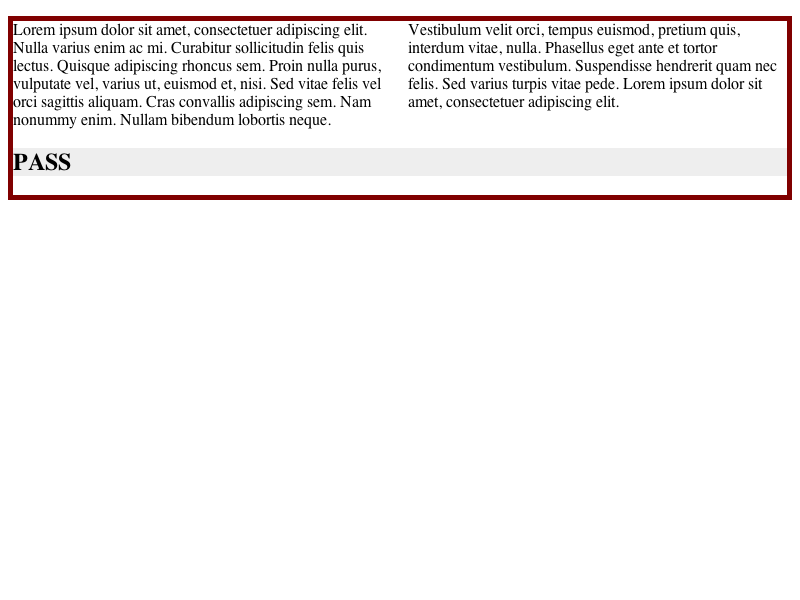
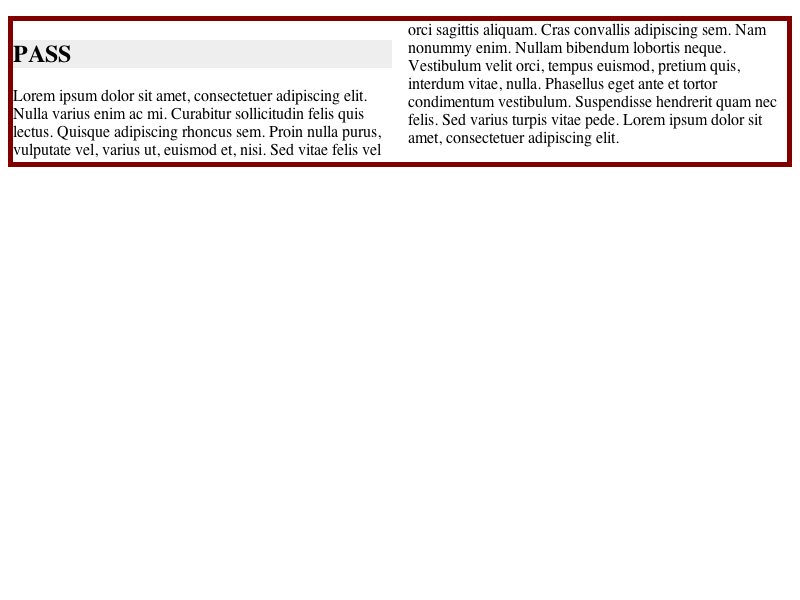
Crash in RenderObjectChildList::destroyLeftOverChildren() https://bugs.webkit.org/show_bug.cgi?id=64753
Reviewed by James Robinson.

Source/WebCore: 

If any of the ancestors between column span element and containing
column's block is a continuation, then don't attempt to render the
column span by splitting the block into continuations.

Test: fast/multicol/column-span-parent-continuation-crash.html

* rendering/RenderBlock.cpp:
(WebCore::RenderBlock::columnsBlockForSpanningElement):

LayoutTests: 

anonymous-split-block-crash rendering was already wrong. The fix prevents
the tree to go bad and hence does not do the column-span rendering. same issue
with clone-anonymous-block-non-inline-child-crash test.

* fast/multicol/column-span-parent-continuation-crash-expected.txt: Added.
* fast/multicol/column-span-parent-continuation-crash.html: Added.
* platform/mac/fast/multicol/span/anonymous-split-block-crash-expected.png:
* platform/mac/fast/multicol/span/anonymous-split-block-crash-expected.txt:
* platform/mac/fast/multicol/span/clone-anonymous-block-non-inline-child-crash-expected.png:
* platform/mac/fast/multicol/span/clone-anonymous-block-non-inline-child-crash-expected.txt:

git-svn-id: http://svn.webkit.org/repository/webkit/trunk/LayoutTests@94541 268f45cc-cd09-0410-ab3c-d52691b4dbfc

Changed region(s): [[0.0, 0.03, 1.0, 0.36], [0.5, 0.03, 0.9688, 0.24]]

diff --git a/fast/multicol/column-span-parent-continuation-crash.html b/fast/multicol/column-span-parent-continuation-crash.html
@@ -1,0 +1,37 @@
+<!DOCTYPE html>
+<html>
+<body>
+<div id="console"></div>
+<style>
+div { -webkit-column-count: 1; }
+h2 { -webkit-column-span: all; }
+</style>
+<script src="../js/resources/js-test-pre.js"></script>
+<script>
+if (window.layoutTestController) {
+    layoutTestController.dumpAsText();
+	layoutTestController.waitUntilDone();
+}
+
+function runTest()
+{
+    document.body.offsetTop;
+    child = document.getElementById('test');
+    child.parentNode.removeChild(child);
+    child = document.getElementById('anything');
+    gc();
+    document.body.innerHTML = "PASS";
+
+	var successfullyParsed = true;
+	if (window.layoutTestController)
+   	    layoutTestController.notifyDone();
+}
+
+setTimeout("runTest()", 0);
+</script>
+<script src="../js/resources/js-test-post.js"></script>
+<div>
+<span id="test"><h2></span>
+</div>
+</body>
+</html>
